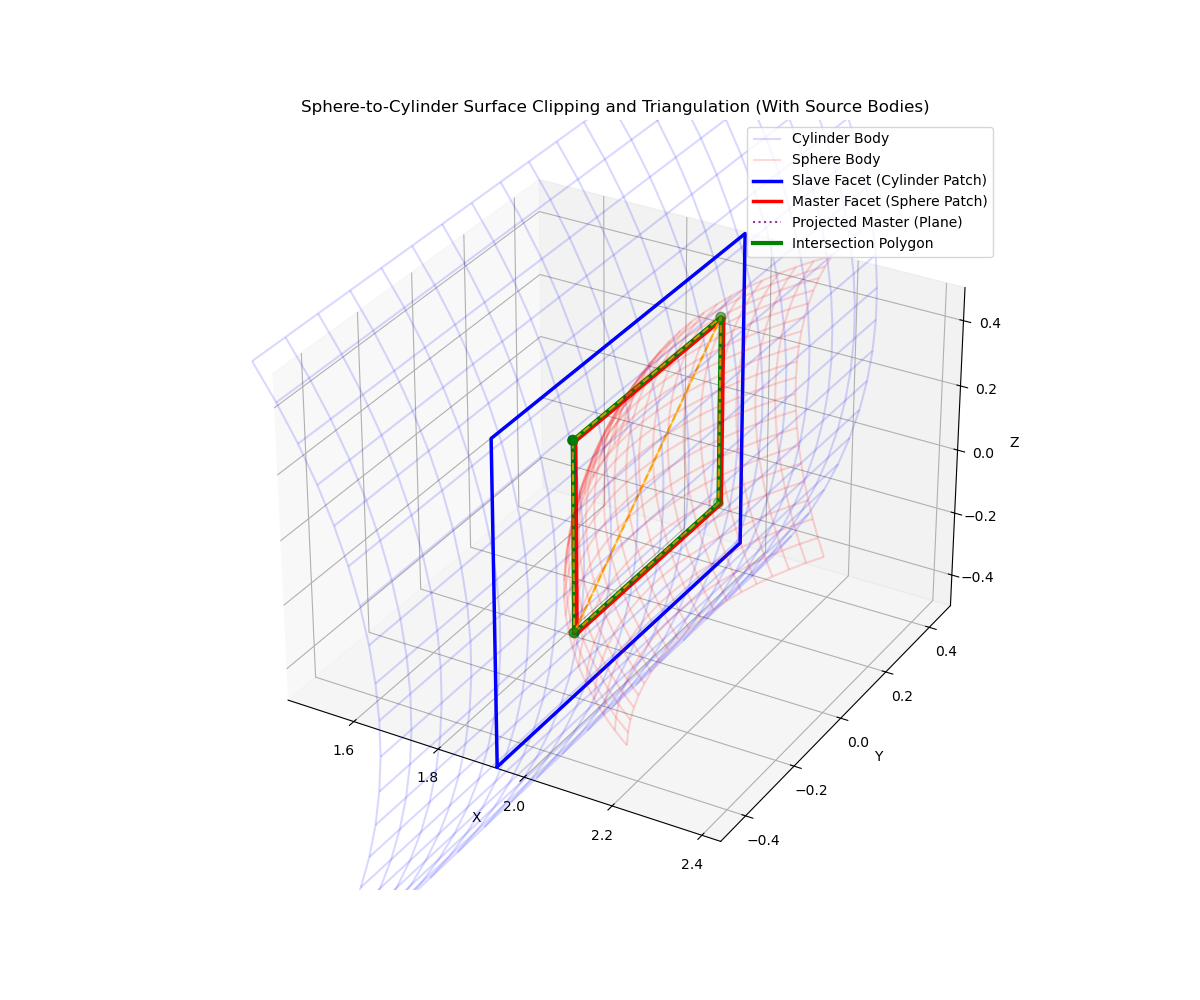
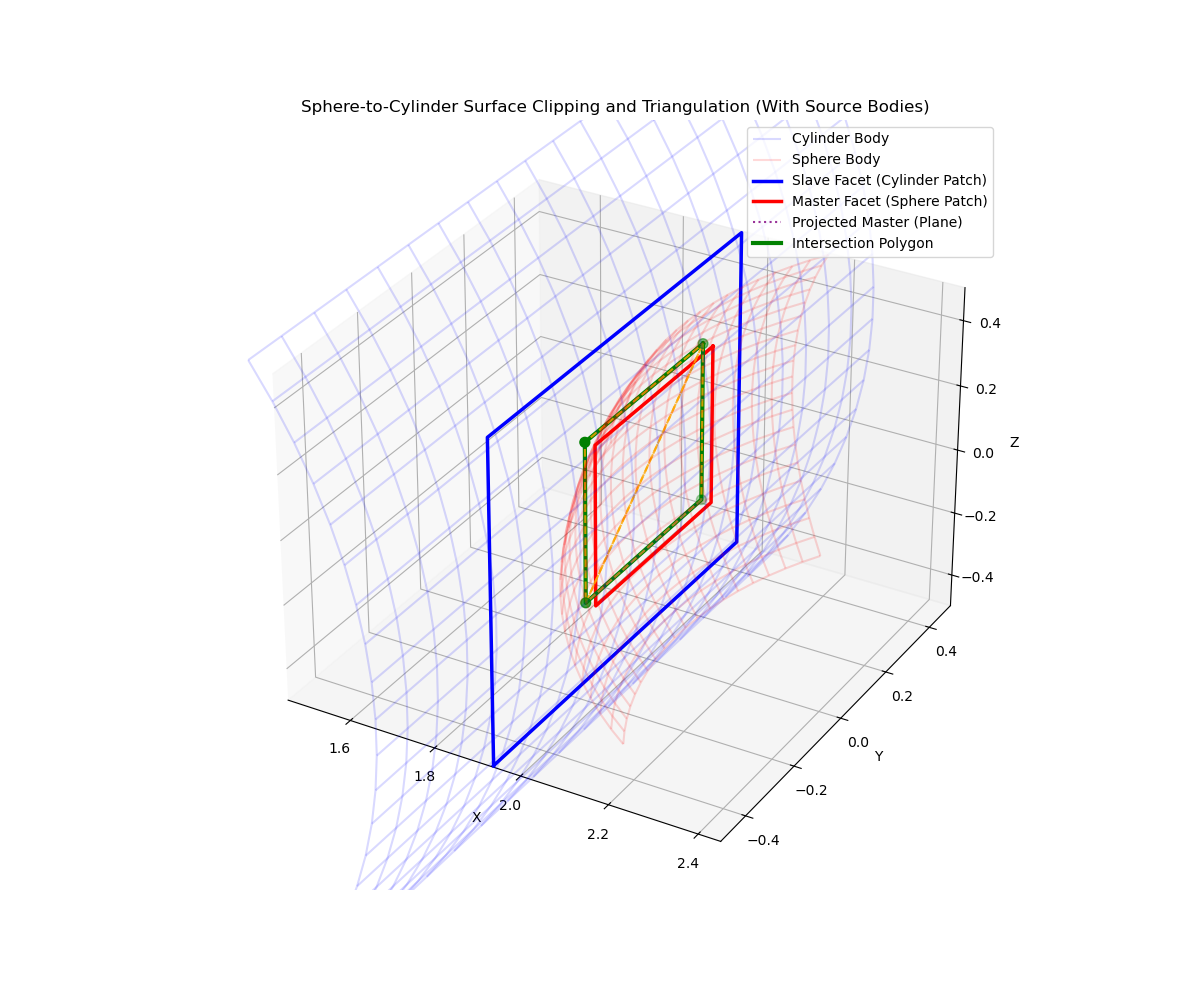
Corrected spherical coordinates mapping on master nodes

Changed region(s): [[0.2158, 0.124, 0.74, 0.899], [0.5858, 0.682, 0.6167, 0.713], [0.555, 0.837, 0.5858, 0.868]]

diff --git a/testfiles/mortar_tests/test3_mortar_intersection/cylinder_sphere.py b/testfiles/mortar_tests/test3_mortar_intersection/cylinder_sphere.py
@@ -27,15 +27,29 @@ def test_curved_cylinder_sphere_projection():
     # Master element: represent a patch of a sphere (radius 1.0) coming from the outside (X > 2.0)
     # let's position the sphere center at [3.1, 0.1, 0.0] and generate a patch facing the cylinder.
     # The master nodes on the sphere surface:
+    # The master nodes on the sphere surface:
+    # A sphere of radius r_sphere centered at c_sphere.
+    # Spherical coordinates equation:
+    # x = c_x + r * sin(theta) * cos(phi)
+    # y = c_y + r * sin(theta) * sin(phi)
+    # z = c_z + r * cos(theta)
+    # Let's generate a patch facing the cylinder (facing -X direction: phi = pi)
     r_sphere = 1.0
     c_sphere = np.array([2.9, 0.1, 0.0])
-    # The nodes are on the sphere surface facing -X direction:
-    master_nodes_3d = np.array([
-        c_sphere + np.array([-r_sphere * np.cos(0.3), -0.3, -r_sphere * np.sin(0.3)]),
-        c_sphere + np.array([-r_sphere * np.cos(0.3),  0.3, -r_sphere * np.sin(0.3)]),
-        c_sphere + np.array([-r_sphere * np.cos(0.3),  0.3,  r_sphere * np.sin(0.3)]),
-        c_sphere + np.array([-r_sphere * np.cos(0.3), -0.3,  r_sphere * np.sin(0.3)])
-    ])
+    
+    # We choose four points around theta = pi/2, phi = pi
+    d_theta = 0.25
+    d_phi = 0.25
+    master_nodes_3d = []
+    for t_val, p_val in [(np.pi/2 - d_theta, np.pi - d_phi),
+                          (np.pi/2 + d_theta, np.pi - d_phi),
+                          (np.pi/2 + d_theta, np.pi + d_phi),
+                          (np.pi/2 - d_theta, np.pi + d_phi)]:
+        x = c_sphere[0] + r_sphere * np.sin(t_val) * np.cos(p_val)
+        y = c_sphere[1] + r_sphere * np.sin(t_val) * np.sin(p_val)
+        z = c_sphere[2] + r_sphere * np.cos(t_val)
+        master_nodes_3d.append([x, y, z])
+    master_nodes_3d = np.array(master_nodes_3d)
     
     # 1. Define the auxiliary plane based on the slave element's centroid and area-weighted normal
     p0 = np.mean(slave_nodes_3d, axis=0)
